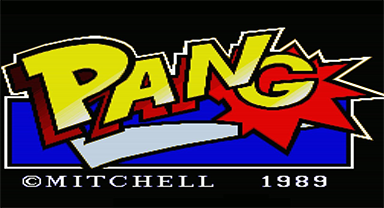
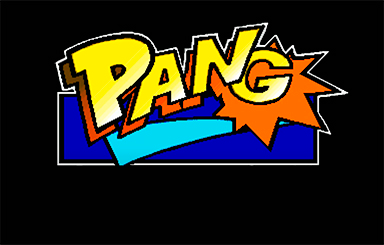
Intro updated and audio for win scene

diff --git a/Pang/Pang/Source/WinScene.cpp b/Pang/Pang/Source/WinScene.cpp
@@ -32,7 +32,7 @@ bool WinScene::Start()
 	bool ret = true;
 
 	bgTexture = App->textures->Load("Assets/UI/PangScene1.png");
-	//App->audio->PlayMusic("Assets/Sound/Sounds_Gameplay/Title.ogg", 1.0f);
+	App->audio->PlayMusic("Assets/Sound/Sounds_Gameplay/Level_Complete.ogg", 1.0f);
 
 	App->render->camera.x = 0;
 	App->render->camera.y = 0;

diff --git a/Pang/Pang/Source/IntroScene.cpp b/Pang/Pang/Source/IntroScene.cpp
@@ -29,7 +29,7 @@ bool SceneIntro::Start()
 
 	bool ret = true;
 
-	bgTexture = App->textures->Load("Assets/UI/Intro2.png");
+	bgTexture = App->textures->Load("Assets/UI/Intro.png");
 	App->audio->PlayMusic("Assets/Sound/Sounds_Gameplay/Title.ogg", 1.0f);
 
 	App->render->camera.x = 0;
